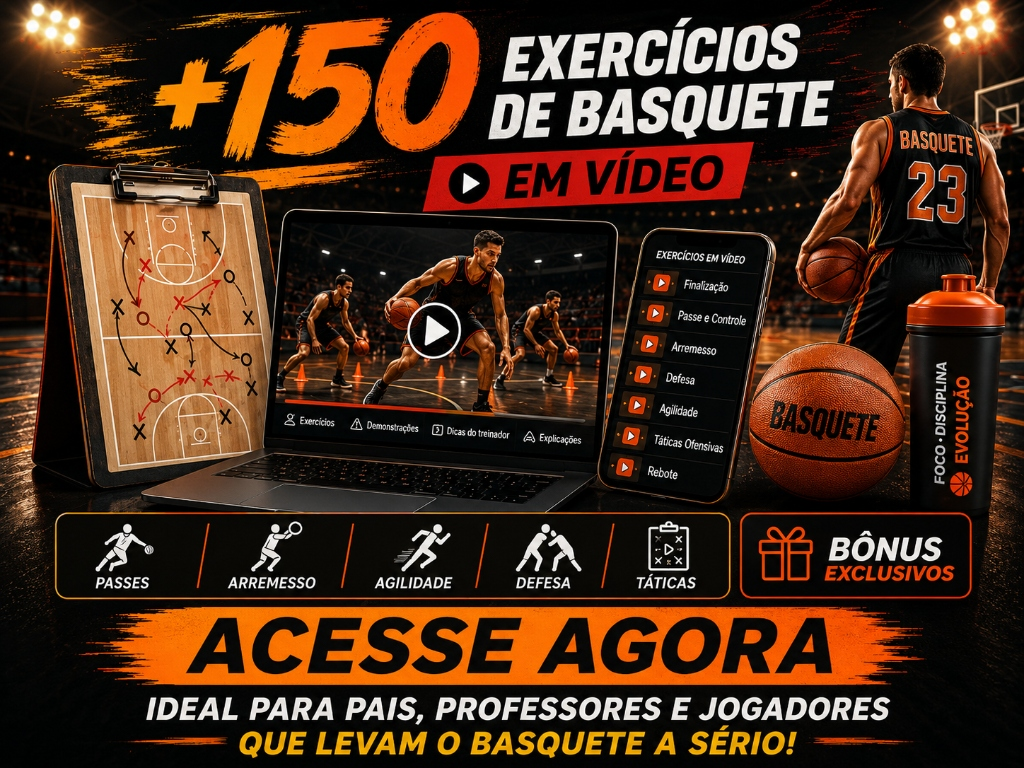
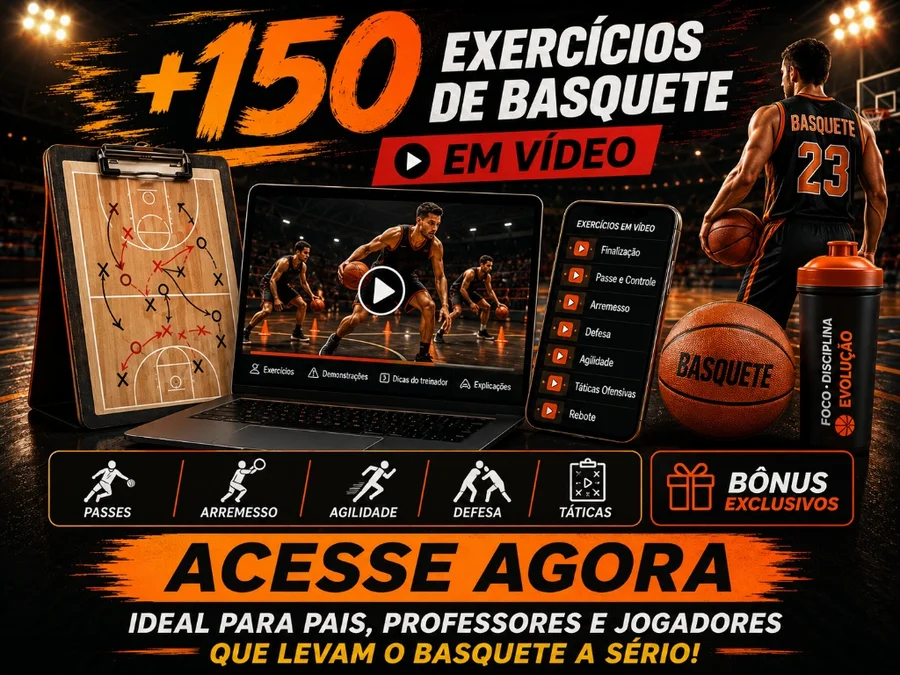
perf: otimizar imagens da landing page para melhorar performance no mobile e LCP

diff --git a/index.html b/index.html
@@ -145,16 +145,16 @@
       <!-- Horizontal Scrollable Container -->
       <div class="testimonials-scroll-container">
         <div class="testimonial-img-card">
-          <img src="images/depo1.png" alt="Depoimento de Professor Rafael">
+          <img src="images/depo1.webp" alt="Depoimento de Professor Rafael" loading="lazy" width="400" height="600">
         </div>
         <div class="testimonial-img-card">
-          <img src="images/depo2.png" alt="Depoimento de Marcos">
+          <img src="images/depo2.webp" alt="Depoimento de Marcos" loading="lazy" width="400" height="600">
         </div>
         <div class="testimonial-img-card">
-          <img src="images/depo3.png" alt="Depoimento de Lucas">
+          <img src="images/depo3.webp" alt="Depoimento de Lucas" loading="lazy" width="400" height="600">
         </div>
         <div class="testimonial-img-card">
-          <img src="images/depo4.png" alt="Depoimento de Professora Camila">
+          <img src="images/depo4.webp" alt="Depoimento de Professora Camila" loading="lazy" width="400" height="600">
         </div>
       </div>
       